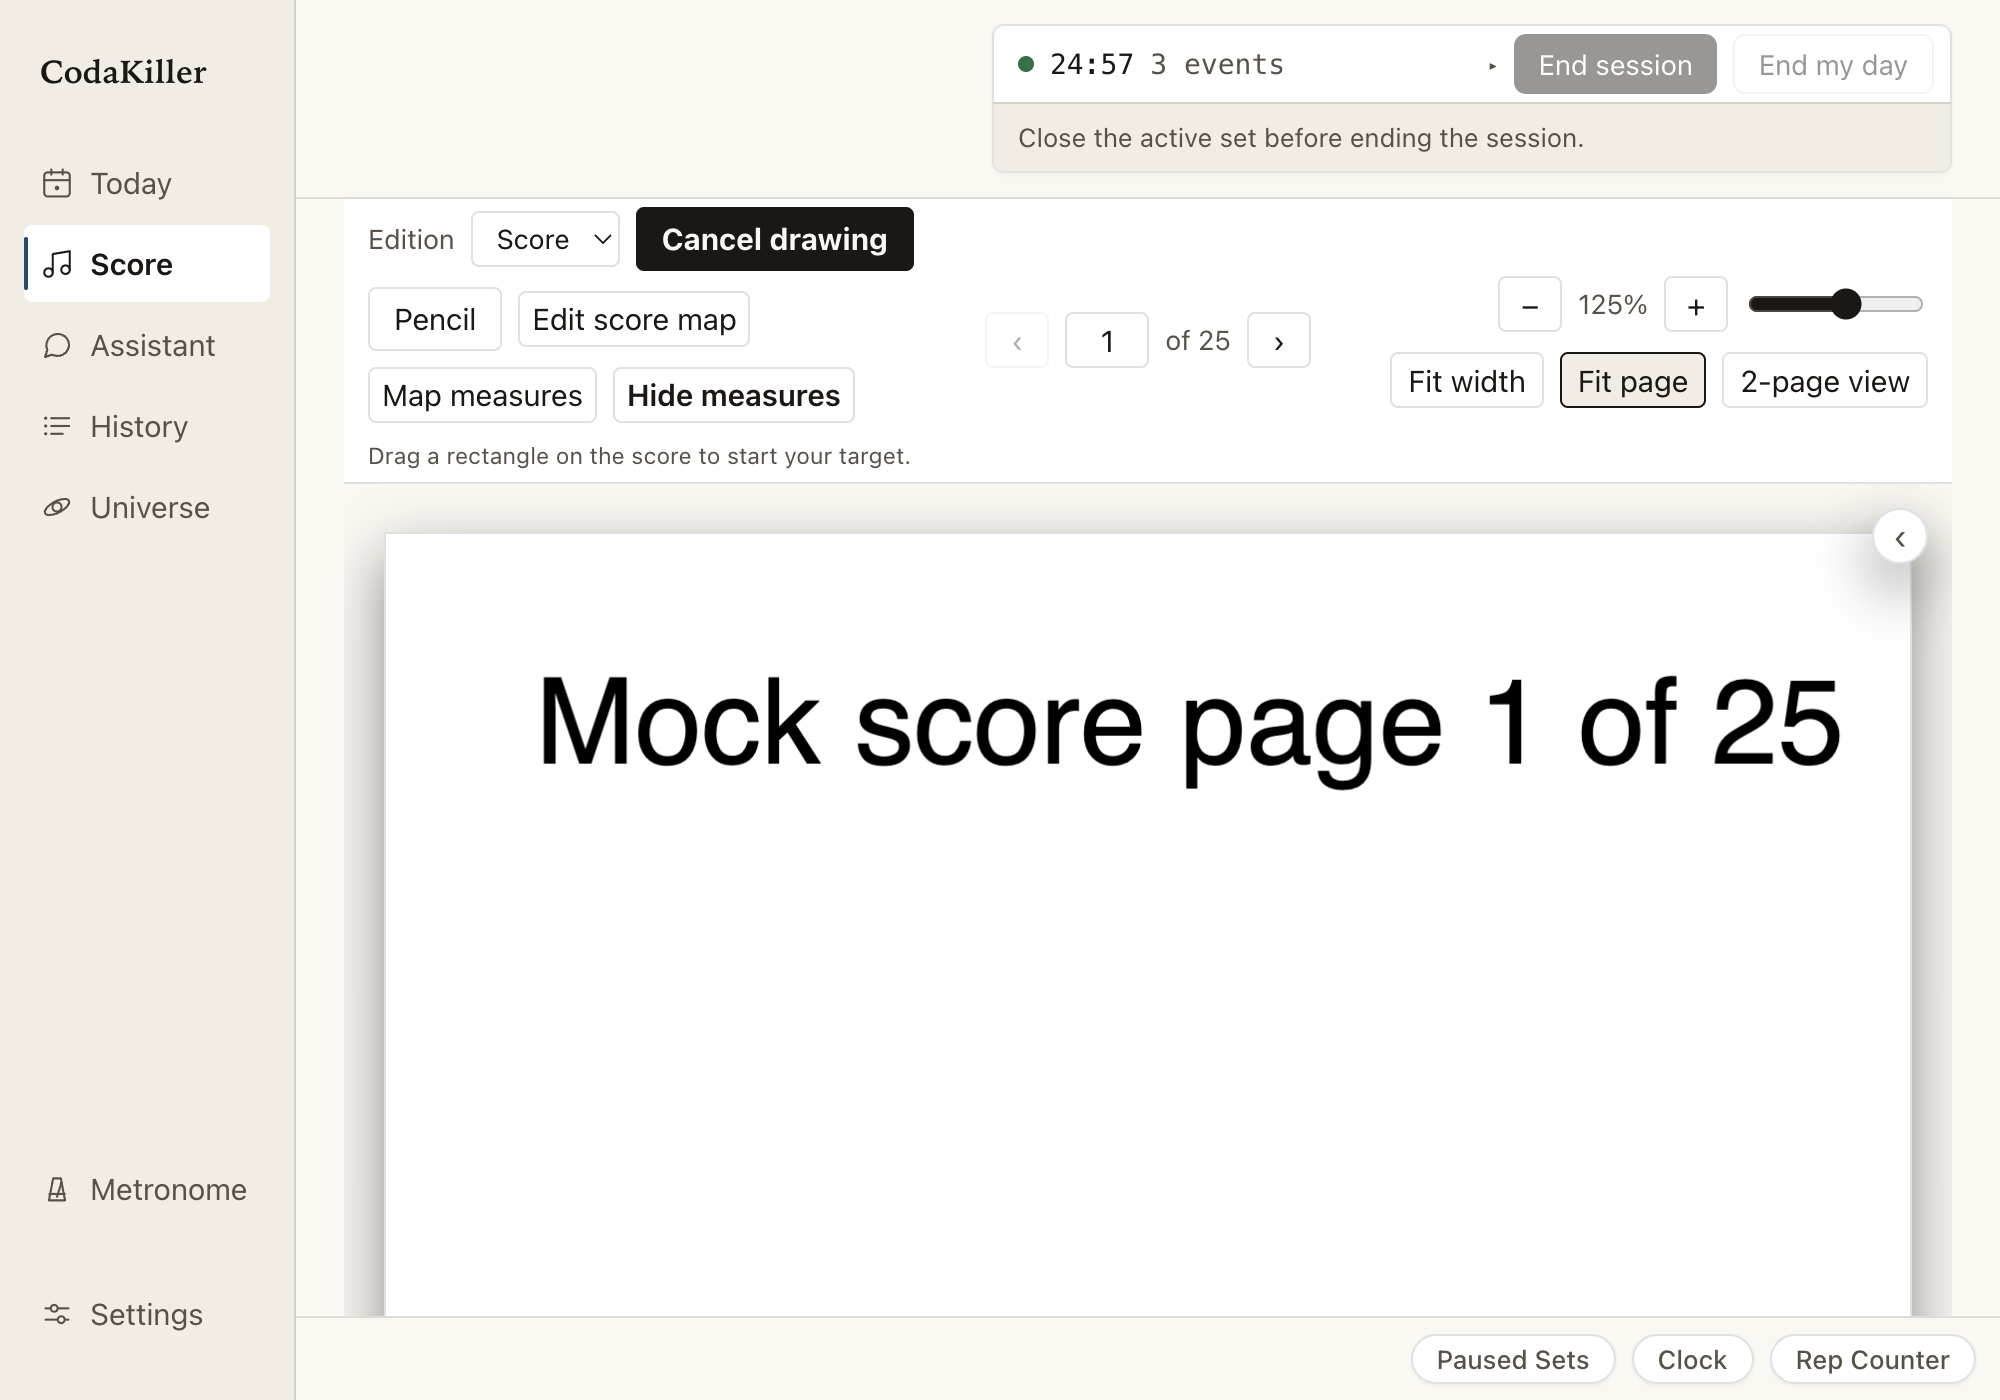
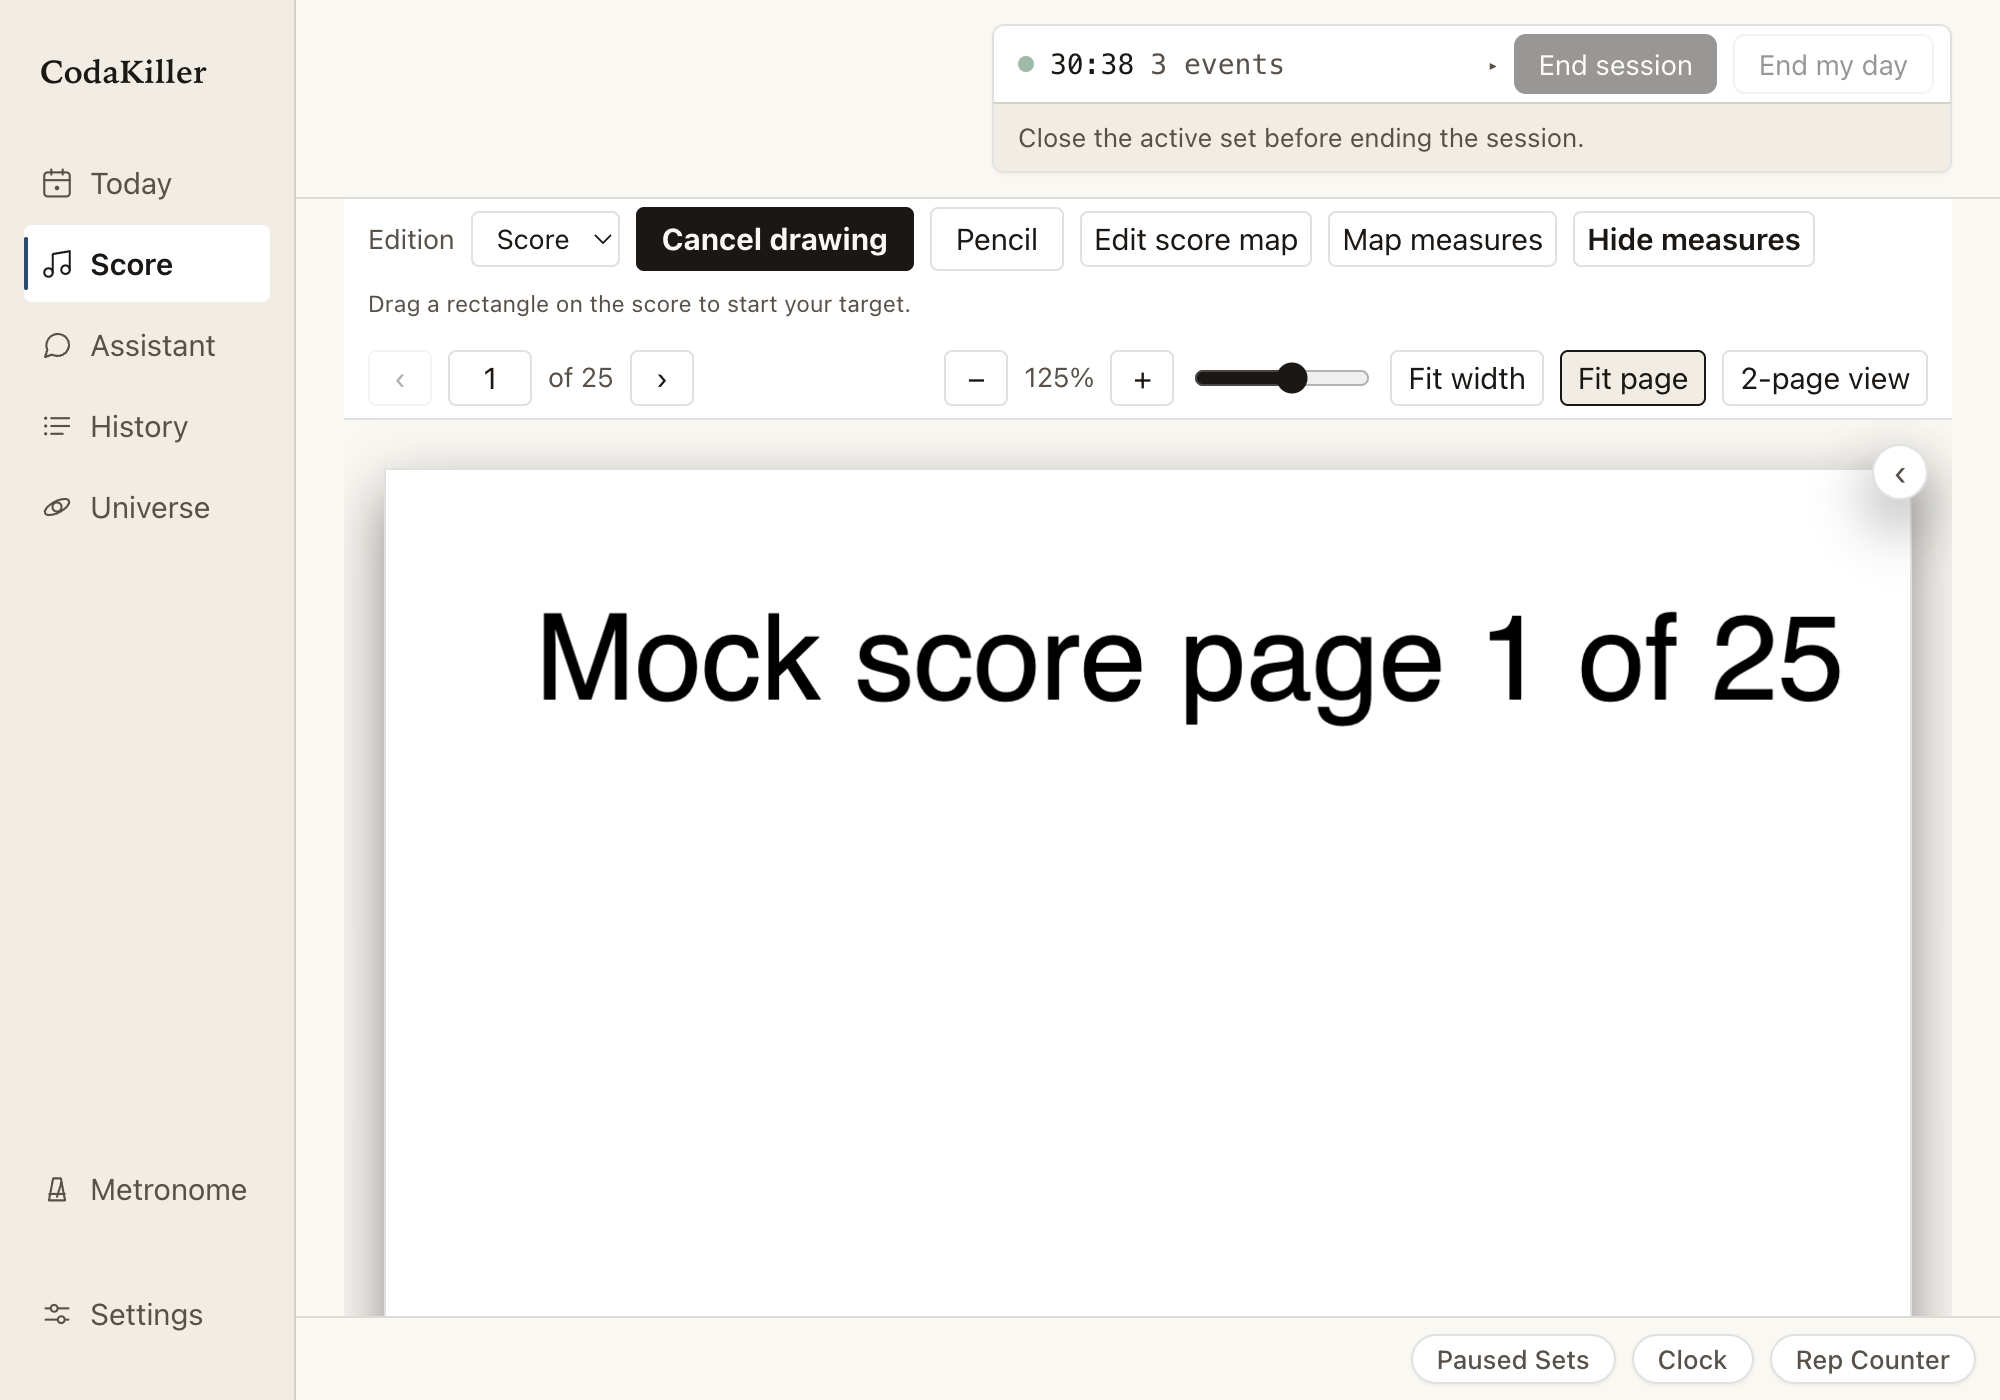
fix(score): B76 — split toolbar reflow to its own 1200px breakpoint so width and toolbar height stay monotonic

Changed region(s): [[0.186, 0.1536, 0.992, 0.43], [0.248, 0.43, 0.93, 0.5836], [0.527, 0.0307, 0.558, 0.0614]]

diff --git a/src/features/score/ScoreView.css b/src/features/score/ScoreView.css
@@ -1078,7 +1078,13 @@
   color: var(--danger);
 }
 
-@media (max-width: 900px) {
+/* B76: the toolbar needs this reflow far earlier than the sidebar does. Keeping
+   both at 900px made the toolbar TALLER at 910px than at 900px (146px -> 174px),
+   because outside the query the base three-column grid squeezes the edition group
+   into a narrow 1fr column and it wraps to three rows. Measured crossover — where
+   the base grid first becomes the shorter of the two — is 1142px; the breakpoint
+   sits at 1200px to leave headroom for edition labels longer than the mock's. */
+@media (max-width: 1200px) {
   .score-toolbar {
     grid-template-columns: auto 1fr;
   }
@@ -1090,7 +1096,9 @@
   .score-zoom {
     justify-content: flex-end;
   }
+}
 
+@media (max-width: 900px) {
   .score-body {
     --score-sidebar-width: 340px;
   }
